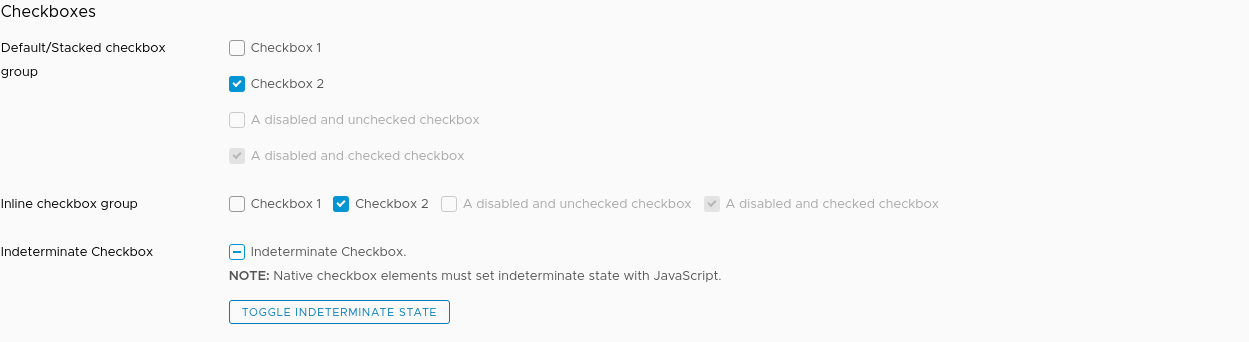
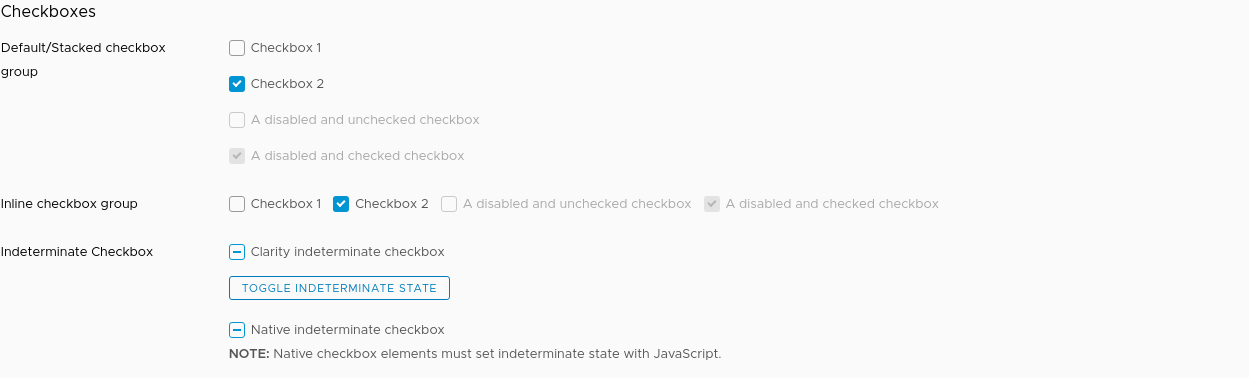
[ng] Make the checkbox component public

diff --git a/src/app/checkboxes/checkboxes.demo.html b/src/app/checkboxes/checkboxes.demo.html
@@ -49,21 +49,54 @@
             <label>Indeterminate Checkbox</label>
             <div class="checkbox-inline">
                 <clr-checkbox type="checkbox" id="checkbox_9" [(clrIndeterminate)]="indeterminateState">
-                    Indeterminate Checkbox.
+                    Clarity indeterminate checkbox
                 </clr-checkbox>
                 <div>
-                    <div>
-                        <b>NOTE:</b> Native checkbox elements must set indeterminate state with JavaScript.
-                    </div>
                     <button class="btn btn-sm" (click)="onToggleIndeterminateState($event)" type="button">
                         Toggle Indeterminate State
                     </button>
+                </div>
+                <div class="checkbox-inline">
+                    <input type="checkbox"
+                           id="checkrads_10"
+                           [indeterminate]="nativeIndeterminateState">
+                    <label for="checkrads_10">Native indeterminate checkbox</label>
+                    <div>
+                        <b>NOTE:</b> Native checkbox elements must set indeterminate state with JavaScript.
+                    </div>
                 </div>
             </div>
         </div>
     </section>
 </form>
 
+<form #form="ngForm" novalidate>
+    <section class="form-block">
+        <div class="form-group">
+            <label>With ngForm & ngModel</label>
+            <clr-checkbox
+                    name="termsCheckbox"
+                    id="checkrads_11"
+                    [clrInline]="true"
+                    [(ngModel)]="termsAgreement">
+                I agree to the terms and conditions. {{ form.value | json }}
+            </clr-checkbox>
+        </div>
+    </section>
+</form>
+
+<form>
+    <section class="form-block">
+        <div class="form-group">
+            <label>With a list of objects</label>
+            <clr-checkbox *ngFor="let item of list"
+                          [(clrChecked)]="item.running"
+                          [clrDisabled]="item.disabled">
+                {{ item.disabled ? ' is disabled.' : (item.running ? ' is running.' : 'is off.') }}
+            </clr-checkbox>
+        </div>
+    </section>
+</form>
 <pre>
     <code clr-code-highlight="language-html">
     &lt;form&gt;
@@ -106,22 +139,56 @@
                     &lt;input type=&quot;checkbox&quot; id=&quot;checkrads_8&quot; disabled checked&gt;
                     &lt;label for=&quot;checkrads_8&quot;&gt;A disabled and checked checkbox&lt;/label&gt;
                 &lt;/div&gt;
-                 &lt;div class=&quot;form-group&quot;&gt;
+                &lt;div class="form-group"&gt;
                     &lt;label&gt;Indeterminate Checkbox&lt;/label&gt;
-                    &lt;div class=&quot;checkbox-inline&quot;&gt;
-                        &lt;clr-checkbox type=&quot;checkbox&quot; id=&quot;checkbox_9&quot; [(clrIndeterminate)]=&quot;indeterminateState&quot;&gt;
-                            Indeterminate Checkbox.
+                    &lt;div class="checkbox-inline"&gt;
+                        &lt;clr-checkbox type="checkbox" id="checkbox_9" [(clrIndeterminate)]="indeterminateState"&gt;
+                            Clarity indeterminate checkbox
                         &lt;/clr-checkbox&gt;
                         &lt;div&gt;
-                            &lt;div&gt;
-                                &lt;b&gt;NOTE:&lt;/b&gt; Native checkbox elements must set indeterminate state with JavaScript.
-                            &lt;/div&gt;
-                            &lt;button class=&quot;btn btn-sm&quot; (click)=&quot;onToggleIndeterminateState($event)&quot; type=&quot;button&quot;&gt;
+                            &lt;button class="btn btn-sm" (click)="onToggleIndeterminateState($event)" type="button"&gt;
                                 Toggle Indeterminate State
                             &lt;/button&gt;
                         &lt;/div&gt;
+                        &lt;div class="checkbox-inline"&gt;
+                            &lt;input type="checkbox"
+                                   id="checkrads_10"
+                                   [indeterminate]="nativeIndeterminateState"&gt;
+                            &lt;label for="checkrads_10"&gt;Native indeterminate checkbox&lt;/label&gt;
+                            &lt;div&gt;
+                                &lt;b&gt;NOTE:&lt;/b&gt; Native checkbox elements must set indeterminate state with JavaScript.
+                            &lt;/div&gt;
+                        &lt;/div&gt;
                     &lt;/div&gt;
                 &lt;/div&gt;
+        &lt;/section&gt;
+    &lt;/form&gt;
+    &lt;form #form="ngForm" novalidate&gt;
+        &lt;section class="form-block"&gt;
+            &lt;div class="form-group"&gt;
+                &lt;label&gt;With ngForm & ngModel&lt;/label&gt;
+                &lt;clr-checkbox
+                        name="termsCheckbox"
+                        class="checkbox-inline"
+                        id="checkrads_11"
+                        [clrInline]="true"
+                        [(ngModel)]="termsAgreement"&gt;
+                    I agree to the terms and conditions. {{ "{{ form.value | json \}\}" }}
+                &lt;/clr-checkbox&gt;
+            &lt;/div&gt;
+        &lt;/section&gt;
+    &lt;/form&gt;
+    &lt;form&gt;
+        &lt;section class="form-block"&gt;
+            &lt;div class="form-group"&gt;
+                &lt;label&gt;With a list of objects&lt;/label&gt;
+                &lt;clr-checkbox
+                        *ngFor="let item of list"
+                        [(clrChecked)]="item.running"
+                        [clrDisabled]="item.disabled"&gt;
+                            {{ "{{ item.ip \}\} \{\{ item.disabled ? ' Is disabled' : '' \}\}" }}
+                &lt;/clr-checkbox&gt;
+            &lt;/div&gt;
         &lt;/section&gt;
     &lt;/form&gt;
     </code>

diff --git a/src/clarity-angular/checkboxes/checkbox.ts b/src/clarity-angular/checkboxes/checkbox.ts
@@ -14,13 +14,15 @@ let latestId = 0;
 @Component({
     selector: "clr-checkbox",
     template: `
-        <input type="checkbox" [id]="id" [name]="name" [checked]="checked" [indeterminate]="indeterminate" 
+        <input type="checkbox" [id]="id" [name]="name" [checked]="checked" 
+               [indeterminate]="indeterminate" [disabled]="disabled"
                (change)="toggle()" (blur)="touch()">
         <label [attr.for]="id"><ng-content></ng-content></label>
     `,
     host: {
         "[class.checkbox]": "!inline",
-        "[class.checkbox-inline]": "inline"
+        "[class.checkbox-inline]": "inline",
+        "[class.disabled]": "disabled"
     },
     /*
      * This provider lets us declare our checkbox as a ControlValueAccessor,
@@ -45,6 +47,10 @@ export class Checkbox implements ControlValueAccessor {
     // If our host has a name attribute, we apply it to the checkbox.
     @Input("name")
     public name: string = null;
+
+    // If the host is disabled we apply it to the checkbox
+    @Input("clrDisabled")
+    public disabled: boolean = false;
 
     // Support for inline checkboxes, adds the necessary class to the host
     @Input("clrInline") public inline = false;

diff --git a/src/app/checkboxes/data/values.ts b/src/app/checkboxes/data/values.ts
@@ -1,0 +1,36 @@
+/*
+ * Copyright (c) 2016 VMware, Inc. All Rights Reserved.
+ * This software is released under MIT license.
+ * The full license information can be found in LICENSE in the root directory of this project.
+ */
+
+import { Server } from "./server";
+
+export const SERVERS: Server[] = [
+    {
+        ip: "192.168.1.42",
+        running: false,
+        name: "Crystal View",
+        disabled: true
+    }, {
+        ip: "192.268.1.19",
+        running: true,
+        name: "Turbulent Foam",
+        disabled: false
+    }, {
+        ip: "192.268.1.11",
+        running: false,
+        name: "Bright Sunshine",
+        disabled: false
+    }, {
+        ip: "192.268.1.3",
+        running: true,
+        name: "Scary Numbers",
+        disabled: true
+    }, {
+        ip: "192.268.1.180",
+        running: false,
+        name: "Loud Silence",
+        disabled: false
+    },
+];

diff --git a/src/app/checkboxes/checkboxes.demo.ts b/src/app/checkboxes/checkboxes.demo.ts
@@ -4,6 +4,8 @@
  * The full license information can be found in LICENSE in the root directory of this project.
  */
 import {Component} from "@angular/core";
+import {Status} from "./data/status";
+import {Server} from "./data/server";
 
 @Component({
     moduleId: module.id,
@@ -14,8 +16,14 @@ import {Component} from "@angular/core";
 })
 
 export class CheckboxesDemo {
-
+    list: Server[];
     indeterminateState: boolean = true;
+    nativeIndeterminateState: boolean = true;
+    termsAgreement: boolean = true;
+
+    constructor(private status: Status) {
+        this.list = status.fetch();
+    }
 
     onToggleIndeterminateState() {
         this.indeterminateState = !this.indeterminateState;

diff --git a/src/app/checkboxes/checkboxes.demo.module.ts b/src/app/checkboxes/checkboxes.demo.module.ts
@@ -5,18 +5,24 @@
  */
 import {NgModule} from "@angular/core";
 import {CommonModule} from "@angular/common";
+import {FormsModule} from "@angular/forms";
 import {ClarityModule} from "../../clarity-angular";
 import {ROUTING} from "./checkboxes.demo.routing";
 import {CheckboxesDemo} from "./checkboxes.demo";
+import {Status} from "./data/status";
 
 @NgModule({
     imports: [
         CommonModule,
+        FormsModule,
         ClarityModule,
         ROUTING
     ],
     declarations: [
         CheckboxesDemo
+    ],
+    providers: [
+        Status
     ],
     exports: [
         CheckboxesDemo

diff --git a/src/app/checkboxes/data/status.ts b/src/app/checkboxes/data/status.ts
@@ -1,0 +1,18 @@
+/*
+ * Copyright (c) 2016 VMware, Inc. All Rights Reserved.
+ * This software is released under MIT license.
+ * The full license information can be found in LICENSE in the root directory of this project.
+ */
+
+import { Server } from "./server";
+import { SERVERS } from "./values";
+
+export class Status {
+    private _all: Server[];
+    constructor() {
+        this._all = SERVERS;
+    }
+    fetch(): Server[] {
+        return this._all;
+    }
+}

diff --git a/src/app/checkboxes/data/server.ts b/src/app/checkboxes/data/server.ts
@@ -1,0 +1,12 @@
+/*
+ * Copyright (c) 2016 VMware, Inc. All Rights Reserved.
+ * This software is released under MIT license.
+ * The full license information can be found in LICENSE in the root directory of this project.
+ */
+
+export interface Server {
+    ip: string;
+    running: boolean;
+    name: string;
+    disabled: boolean;
+}
